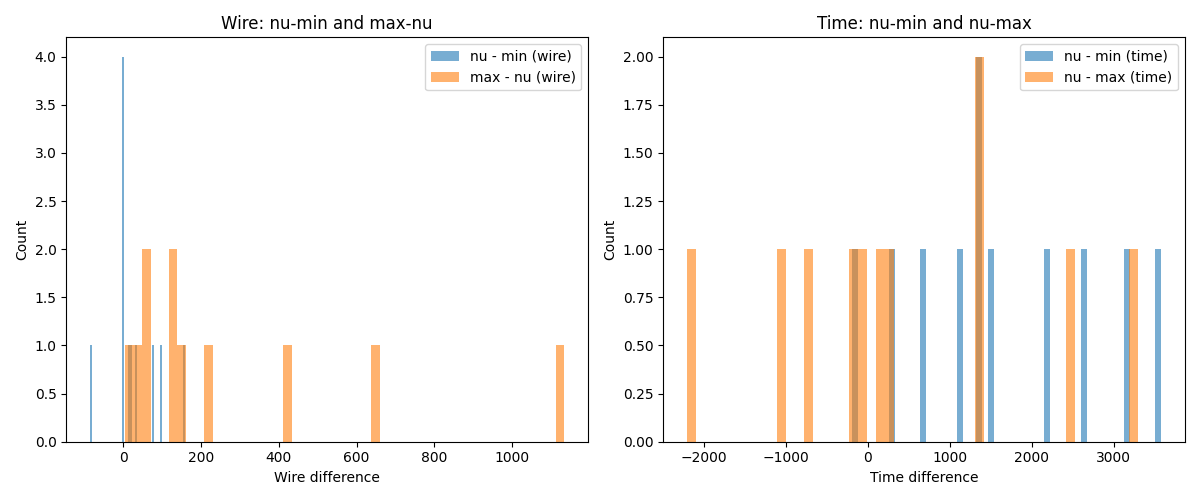
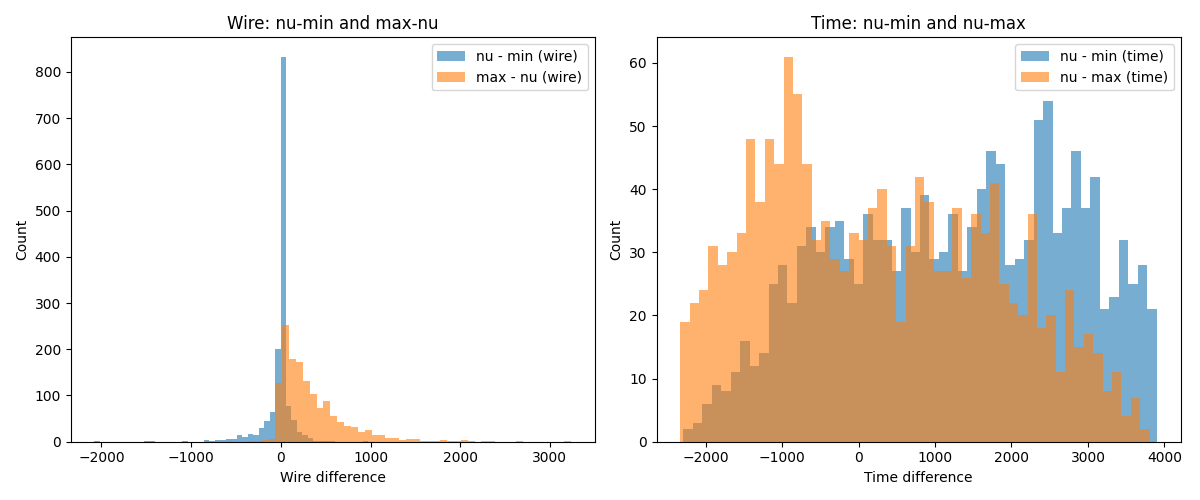
Update notes for neutrino data preprocessing and enhance wire/time tick analysis

diff --git a/notes.md b/notes.md
@@ -32,4 +32,5 @@
     1. Cut [Time Neg, Time Pos] for Timetick
     1. Save sparse format
     1. TODO: Figure out cut values
-        1. Look at distribution?
+        1. Look at distribution? Fixed size, need reference wire/time range with respect to neutrino vertex
+        2. Event by event: Take min/max of wire/time tick after removing low energy depostions (`cateogory`: other) $\rightarrow$ This seems more reliable
